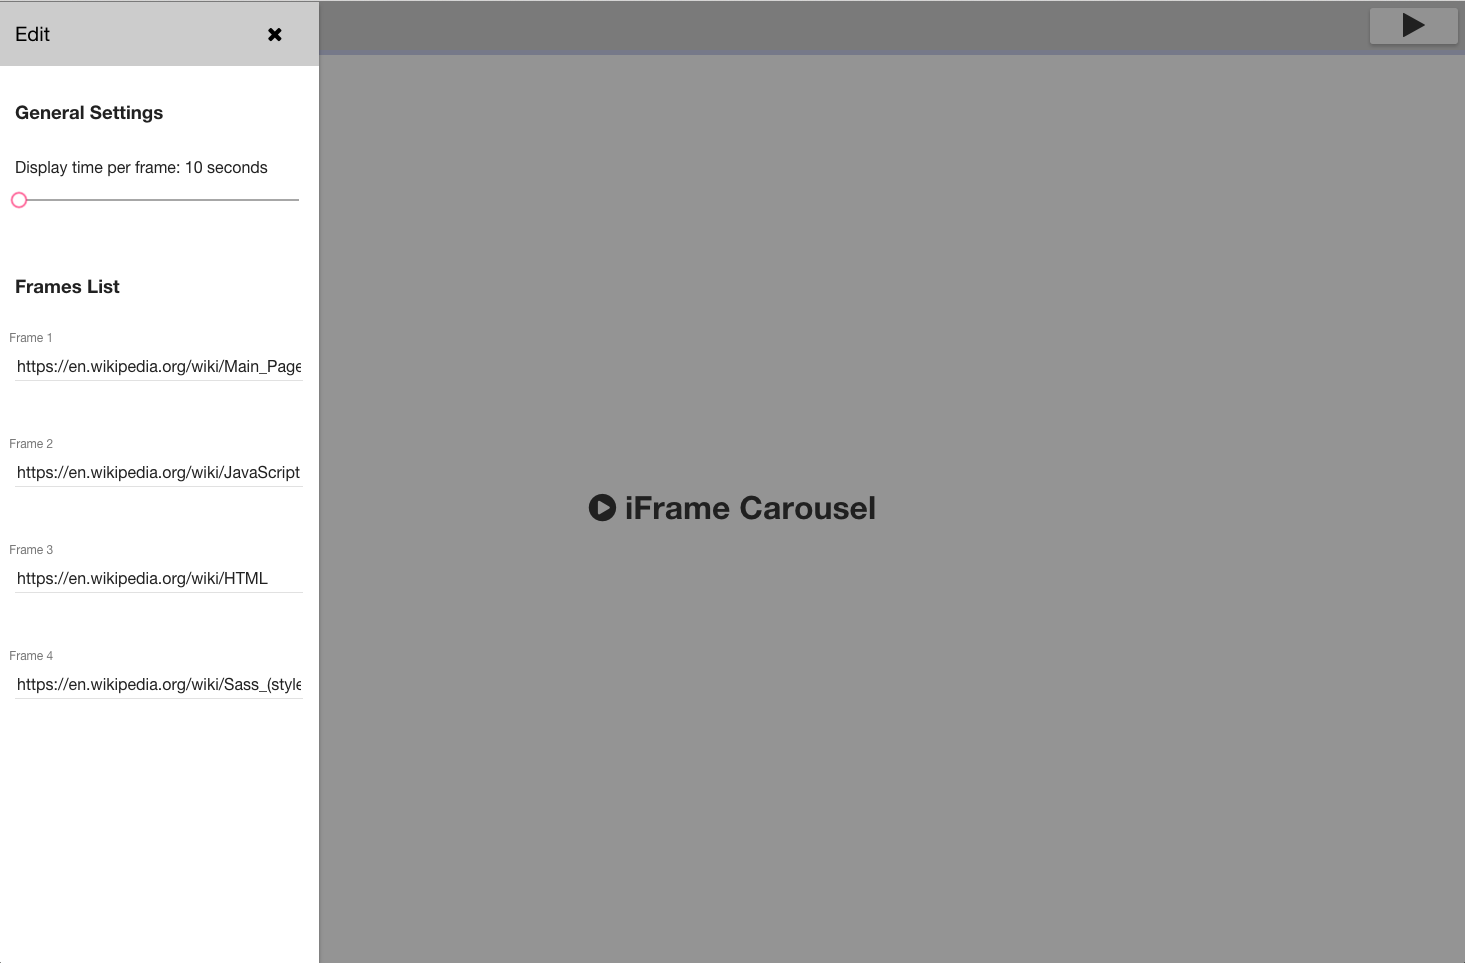
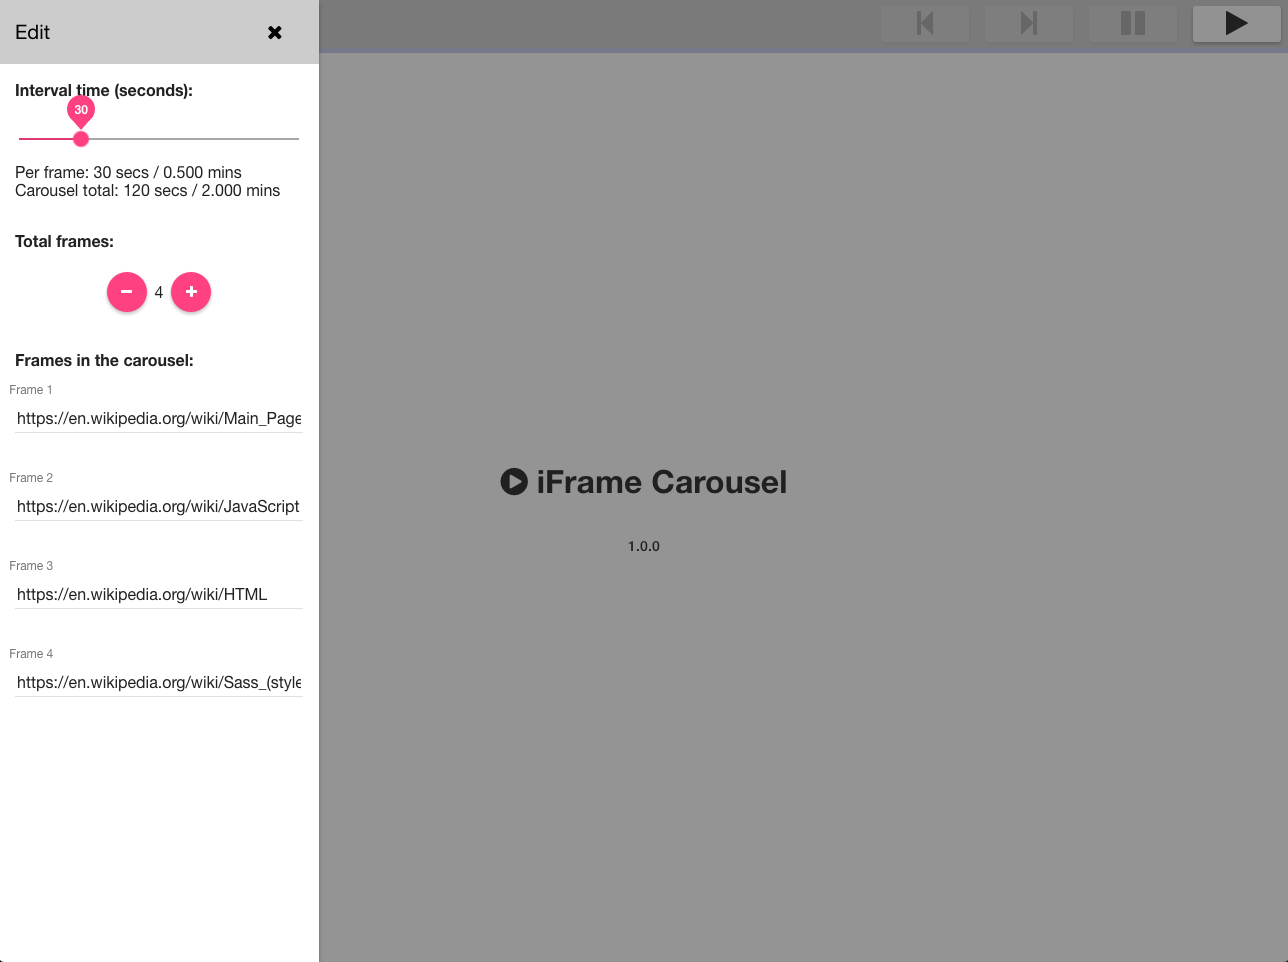
Updating the README with new example images and explanations of latest features

diff --git a/README.md b/README.md
@@ -11,9 +11,13 @@ Displays a carousel of websites in a loop, great for viewing status boards, stat
 
 ![alt text](https://github.com/alphafitch/iframe-carousel/blob/master/src/assets/images/examples/iframe-carousel-in-progress.png "Carousel in progress")
 
-You can edit the timer for the carousel and the frames that are shown.
+You can change the timer for the carousel and the frames that are shown in the edit menu.
 
 ![alt text](https://github.com/alphafitch/iframe-carousel/blob/master/src/assets/images/examples/iframe-carousel-edit-menu.png "Edit menu open")
+
+Other functionality includes the pause button to halt the carousel at any time to take a longer look at a page and the forwards/backward buttons to move between pages.
+
+![alt text](https://github.com/alphafitch/iframe-carousel/blob/master/src/assets/images/examples/iframe-carousel-paused.png "Carousel paused")
 
 ## Setup
 
